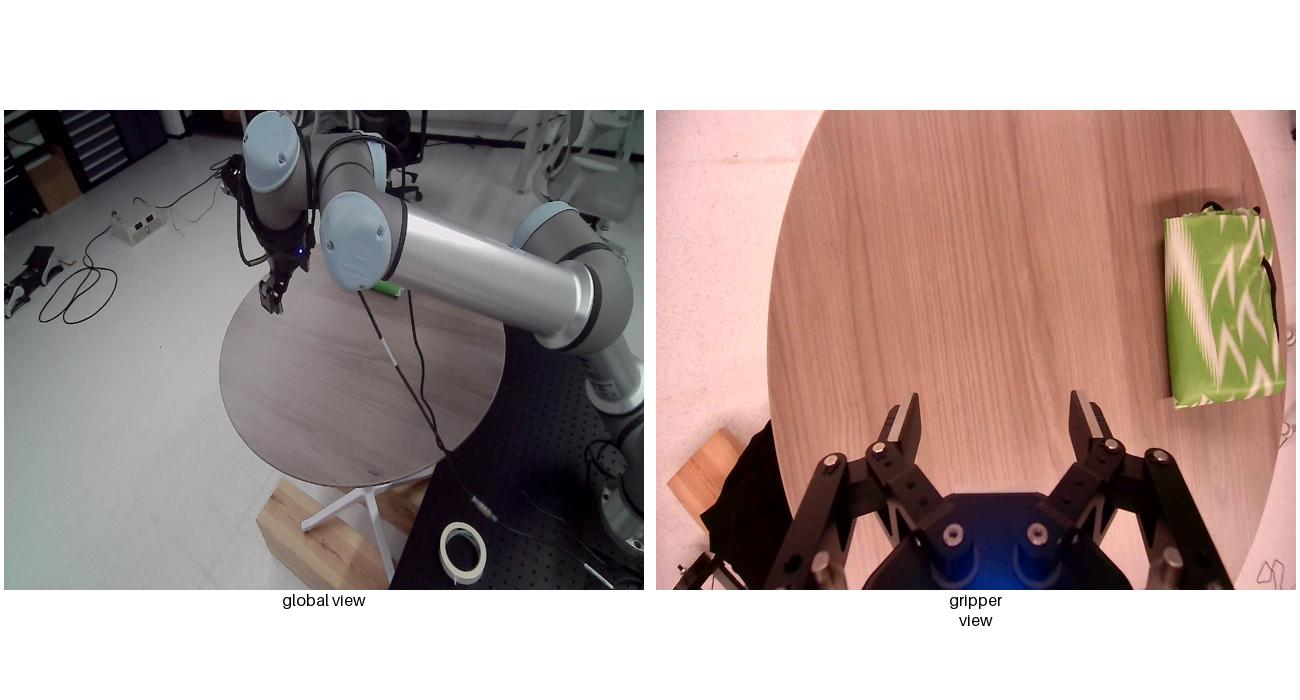
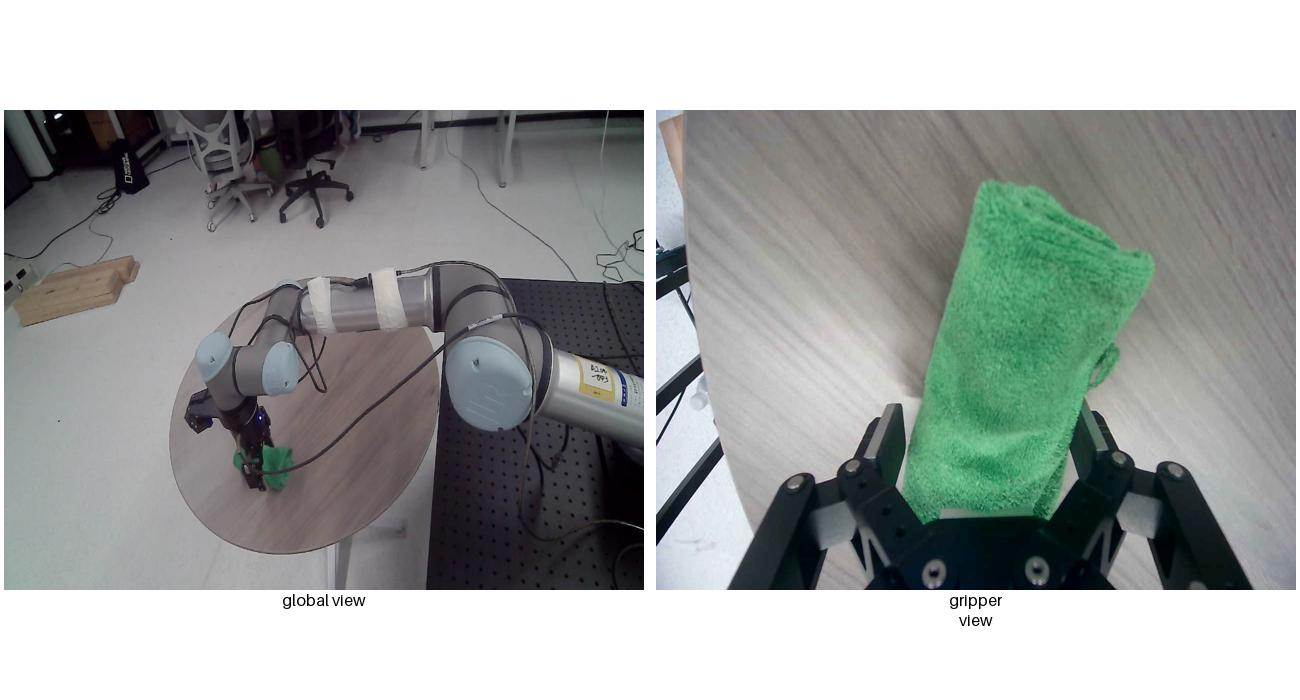
move action individually

diff --git a/ur5e_ws/src/ur5e_ctrl_jeff/scripts/motion_commander.py b/ur5e_ws/src/ur5e_ctrl_jeff/scripts/motion_commander.py
@@ -361,7 +361,7 @@ class MotionCommander:
 
         return result
 
-    def execute_arm_gripper_trajectory(self, pose_list=[], grip_list=[], duration_list=[]):
+    def execute_arm_gripper_trajectory(self, pose_list=[], grip_list=[], duration_list=[], is_ask_conf=True):
         """
         Execute the whole trajectory combining robot arm and gripper
         
@@ -390,8 +390,9 @@ class MotionCommander:
             sys.exit(-1)
 
         # ask the user to confitm the following actions
-        if self.is_verbose:
+        if is_ask_conf:
             self.ask_confirmation(pose_list)
+        if self.is_verbose:
             rospy.loginfo("[INFO] Executing trajectory using the {}".format(self.cartesian_trajectory_controller))
         
         # split the poses according to the mutation of gripper action
@@ -399,17 +400,13 @@ class MotionCommander:
         pose_list_split = self.split_list(pose_list, mutation_indexes)
         duration_list_split = self.split_list(duration_list, mutation_indexes)
 
-        print(mutation_indexes)
-        print(mutation_actions)
-        print(pose_list_split)
-        print(duration_list_split)
+        # print(mutation_indexes)
+        # print(mutation_actions)
+        # print(pose_list_split)
+        # print(duration_list_split)
 
         # run the trajectory for each time
         for mut_idx,(poses, durations) in enumerate(zip(pose_list_split, duration_list_split)):
-
-            # visulize the movement of the arm
-            if self.is_verbose : 
-                rospy.logwarn("[INFO] The robot will move to the following waypoints: {}".format(poses))
             
             # initial goals
             goal = FollowCartesianTrajectoryGoal()
@@ -418,6 +415,12 @@ class MotionCommander:
                 point.pose = pose
                 point.time_from_start = rospy.Duration(duration)
                 goal.trajectory.points.append(point)
+            
+            # # visulize the movement of the arm
+            # if is_ask_conf:
+            #     self.ask_confirmation(poses)
+            # if self.is_verbose : 
+            #     rospy.logwarn("[INFO] The robot will move to the following waypoints: {}".format(poses))
 
             # send the goals and wait for answer
             trajectory_client.send_goal(goal)
@@ -555,29 +558,29 @@ if __name__ == "__main__":
     # duration_list = [5.0, 10.0, 15.0]
     # client.send_joint_trajectory(position_list, velocity_list, duration_list)
     
-    # POSE TRAJECTORY CONTROLLER
-    # the following list are arbitrary positions | Change to your own needs if desired | Position([3]) + Quaternion([4])
-    pose_list = [
-        geometry_msgs.Pose(
-            geometry_msgs.Vector3(-1.519791009070174947e-01,-3.131022253507395048e-01,1.013676147114260129e+00), 
-            geometry_msgs.Quaternion(-3.817350884507677566e-01,-7.129251057315758588e-01,5.668133858421183779e-01,1.572854141149138407e-01)
-        ),
-        geometry_msgs.Pose(
-            geometry_msgs.Vector3(-5.712233991576016745e-01,-4.502260737368067867e-01,7.264138187685256209e-01), 
-            geometry_msgs.Quaternion(5.036091149290695679e-01,7.681067146008192514e-01,-3.869030021392148577e-01,8.182909801016656492e-02)
-        ),
-        geometry_msgs.Pose(
-            geometry_msgs.Vector3(-7.632043884707433445e-01,-3.879991053728846229e-01,3.876896953747783203e-01), 
-            geometry_msgs.Quaternion(5.447764712748347504e-01,8.383633324432937517e-01,-1.910714013280295775e-02,6.605723731065349293e-04)
-        ),
-        geometry_msgs.Pose(
-            geometry_msgs.Vector3(-2.433018494073919402e-01,-4.929757010216171409e-01,8.479811315436367458e-01), 
-            geometry_msgs.Quaternion(-2.764537739283712825e-01,-9.060502273573407539e-01,2.989711706867989038e-01,1.151630821254677334e-01)
-        ),
-    ]
-    duration_list = [10.0, 10.0, 10.0, 10.0]
-    client.send_cartesian_trajectory(pose_list, duration_list)
-    print(client.get_arm_cartesian_state())
+    # # POSE TRAJECTORY CONTROLLER
+    # # the following list are arbitrary positions | Change to your own needs if desired | Position([3]) + Quaternion([4])
+    # pose_list = [
+    #     geometry_msgs.Pose(
+    #         geometry_msgs.Vector3(-1.519791009070174947e-01,-3.131022253507395048e-01,1.013676147114260129e+00), 
+    #         geometry_msgs.Quaternion(-3.817350884507677566e-01,-7.129251057315758588e-01,5.668133858421183779e-01,1.572854141149138407e-01)
+    #     ),
+    #     geometry_msgs.Pose(
+    #         geometry_msgs.Vector3(-5.712233991576016745e-01,-4.502260737368067867e-01,7.264138187685256209e-01), 
+    #         geometry_msgs.Quaternion(5.036091149290695679e-01,7.681067146008192514e-01,-3.869030021392148577e-01,8.182909801016656492e-02)
+    #     ),
+    #     geometry_msgs.Pose(
+    #         geometry_msgs.Vector3(-7.632043884707433445e-01,-3.879991053728846229e-01,3.876896953747783203e-01), 
+    #         geometry_msgs.Quaternion(5.447764712748347504e-01,8.383633324432937517e-01,-1.910714013280295775e-02,6.605723731065349293e-04)
+    #     ),
+    #     geometry_msgs.Pose(
+    #         geometry_msgs.Vector3(-2.433018494073919402e-01,-4.929757010216171409e-01,8.479811315436367458e-01), 
+    #         geometry_msgs.Quaternion(-2.764537739283712825e-01,-9.060502273573407539e-01,2.989711706867989038e-01,1.151630821254677334e-01)
+    #     ),
+    # ]
+    # duration_list = [10.0, 10.0, 10.0, 10.0]
+    # client.send_cartesian_trajectory(pose_list, duration_list)
+    # print(client.get_arm_cartesian_state())
     
     # # POSITION + GRIPPER
     # # the following list are arbitrary positions | Change to your own needs if desired | Position([3]) + Quaternion([4])
@@ -625,7 +628,6 @@ if __name__ == "__main__":
     print(client.get_arm_cartesian_state())
     print(client.get_state())
     
-
     # raise ValueError(
     #     "I only understand types 'joint_based' and 'cartesian', but got '{}'".format(
     #         trajectory_type

diff --git a/ur5e_ws/src/ur5e_ctrl_jeff/scripts/inference.py b/ur5e_ws/src/ur5e_ctrl_jeff/scripts/inference.py
@@ -25,35 +25,34 @@ from utils import cartesian_linear_mapping
 if sys.version_info[0] < 3:
     input = raw_input
 
+
 def run():
     """
     run the whole process
 
     """
-  
+
     # initialization
     rospy.init_node("inference")
     motion_client = MotionCommander()
     
     # get the initial image
     ask_confirmation(prompt="we'll start the client to recieve the msg from VLA")
-    vla_client = VLAClient(host="192.168.2.5", port=5050)
+    vla_client = VLAClient(host="192.168.2.3", port=5050)
 
-    # [[x_min,x_max],[y...],[z...],[rx...],[ry...],[rz...]]
-
-    cart_vla = np.array([[0.18, 0.68],
-                         [-0.27, 0.38],
-                         [-0.20, 0.20],
-                         [-1.0,1.0],
-                         [-0.51,0.40],
-                         [0.77,2.60]])
-
-    cart_ur5e = np.array([[-0.80, 0.00],
-                          [-0.80, 0.00],
-                          [0.35, 0.95],
-                          [-1.0,1.0],
-                          [-0.51,0.40],
-                          [0.77,2.60]])
+    # # [[x_min,x_max],[y...],[z...],[rx...],[ry...],[rz...]]
+    # cart_vla = np.array([[0.18, 0.68],
+    #                      [-0.27, 0.38],
+    #                      [-0.20, 0.20],
+    #                      [-1.0,1.0],
+    #                      [-0.51,0.40],
+    #                      [0.77,2.60]])
+    # cart_ur5e = np.array([[-0.80, 0.00],
+    #                       [-0.80, 0.00],
+    #                       [0.35, 0.95],
+    #                       [-1.0,1.0],
+    #                       [-0.51,0.40],
+    #                       [0.77,2.60]])
     
     # run
     while True:
@@ -72,9 +71,11 @@ def run():
       print('[INFO] robot state | quat : \n', robot_state)
       robot_state_euler = quaternion_to_euler(robot_state)
       # print('[INFO] robot state | euler | ur5e : \n', robot_state_euler)
-      robot_state_euler_vla = cartesian_linear_mapping(robot_state_euler, cart_ur5e, cart_vla)
-      # print('[INFO] robot state | euler | vla: \n', robot_state_euler_vla)
-      robot_state_euler_str= format_state_array(robot_state_euler_vla)
+      
+      # robot_state_euler = cartesian_linear_mapping(robot_state_euler, cart_ur5e, cart_vla)
+      # # print('[INFO] robot state | euler | vla: \n', robot_state_euler)
+      
+      robot_state_euler_str= format_state_array(robot_state_euler)
       print('[INFO] robot state | euler | vla | str: \n', robot_state_euler_str)
       
       # get the actions
@@ -84,7 +85,7 @@ def run():
           "initialImg" : initialImg,
           # "finalImg" : finalImg,
           "instruction" : "sweep the green cloth to the left side of the table", # 
-          "template" : "12:37:15", # "class_id : index : num_action"
+          "template" : "12:37:5", # "class_id : index : num_action"
           "reward" : 0,
           "prompt_img" : False,
           "last_actions" : "",
@@ -93,20 +94,26 @@ def run():
       }
       
       response = vla_client.infer_traj(infer_param)
-      action_arrary_vla = get_trajNdArray(get_completeTraj(response['traj']))
-      action_arrary = cartesian_linear_mapping(action_arrary_vla, cart_vla, cart_ur5e)
+      action_arrary = get_trajNdArray(get_completeTraj(response['traj']))
+
+      # action_arrary = cartesian_linear_mapping(action_arrary, cart_vla, cart_ur5e)
+      
       print(action_arrary)
 
       ask_confirmation(prompt="we'll converse the instruction...")
       action_arrary_quaternion = euler_to_quaternion(action_arrary)
-      pose_list, grip_list, duration_list = action_to_command(action_arrary_quaternion, first_duration=2)
+
+      pose_list, grip_list, duration_list = action_to_command(action_arrary_quaternion, first_duration=5, duration=5)
 
       print(pose_list)
       print(grip_list)
       print(duration_list)
 
       ask_confirmation(prompt="we'll execute the trajectory...")
-      motion_client.execute_arm_gripper_trajectory(pose_list, grip_list, duration_list)
+      for i in range(len(pose_list)):
+        print(f"ACTION - {i+1}")
+        motion_client.execute_arm_gripper_trajectory([pose_list[i]], [grip_list[i]], [duration_list[i]], is_ask_conf=False)
+      
       
 if __name__ == "__main__":
 

diff --git a/ur5e_ws/src/ur5e_ctrl_jeff/scripts/wrist_camera.py b/ur5e_ws/src/ur5e_ctrl_jeff/scripts/wrist_camera.py
@@ -111,16 +111,16 @@ def test():
 
 if __name__ == "__main__":
 
-    # # capture one image
-    # camera = WristCamera()
-    # camera.start()
-    # if camera.wait_for_ready():
-    #     capture_image(camera,"/home/robot/UR_Robot_Arm/ur5e_ws/src/ur5e_ctrl_jeff/img/wrist/test.jpg")
-    # else:
-    #     print("等待相机准备超时")
-    # camera.stop()
-    # cv2.destroyAllWindows()
+    # capture one image
+    camera = WristCamera()
+    camera.start()
+    if camera.wait_for_ready():
+        capture_image(camera,"/home/robot/UR_Robot_Arm/ur5e_ws/src/ur5e_ctrl_jeff/img/wrist/test.jpg")
+    else:
+        print("等待相机准备超时")
+    camera.stop()
+    cv2.destroyAllWindows()
     
-    # 
-    test()
+    # # 
+    # test()
 

diff --git a/ur5e_ws/src/ur5e_ctrl_jeff/scripts/scene_camera.py b/ur5e_ws/src/ur5e_ctrl_jeff/scripts/scene_camera.py
@@ -114,15 +114,15 @@ def test():
 
 if __name__ == "__main__":
 
-    # # capture one image
-    # camera = SceneCamera()
-    # camera.start()
-    # if camera.wait_for_ready():
-    #     capture_image(camera,"/home/robot/UR_Robot_Arm/ur5e_ws/src/ur5e_ctrl_jeff/img/scene/test.jpg")
-    # else:
-    #     print("等待相机准备超时")
-    # camera.stop()
-    # cv2.destroyAllWindows()
+    # capture one image
+    camera = SceneCamera()
+    camera.start()
+    if camera.wait_for_ready():
+        capture_image(camera,"/home/robot/UR_Robot_Arm/ur5e_ws/src/ur5e_ctrl_jeff/img/scene/test.jpg")
+    else:
+        print("等待相机准备超时")
+    camera.stop()
+    cv2.destroyAllWindows()
 
-    # 
-    test()
+    # # 
+    # test()

diff --git a/ur5e_ws/src/ur5e_ctrl_jeff/scripts/utils.py b/ur5e_ws/src/ur5e_ctrl_jeff/scripts/utils.py
@@ -187,11 +187,13 @@ def format_state_array(state_array):
     return state_str
 
 
-def action_to_command(action_arrary_quaternion, first_duration=10, duration=2):
+def action_to_command(action_arrary_quaternion, first_duration=10, duration=2, fix_num = 4):
     """
     get the inputs for trajectory moving
 
     """
+    
+    action_arrary_quaternion = np.round(action_arrary_quaternion,fix_num)
     
     gripper_crateria = 0.5
 
